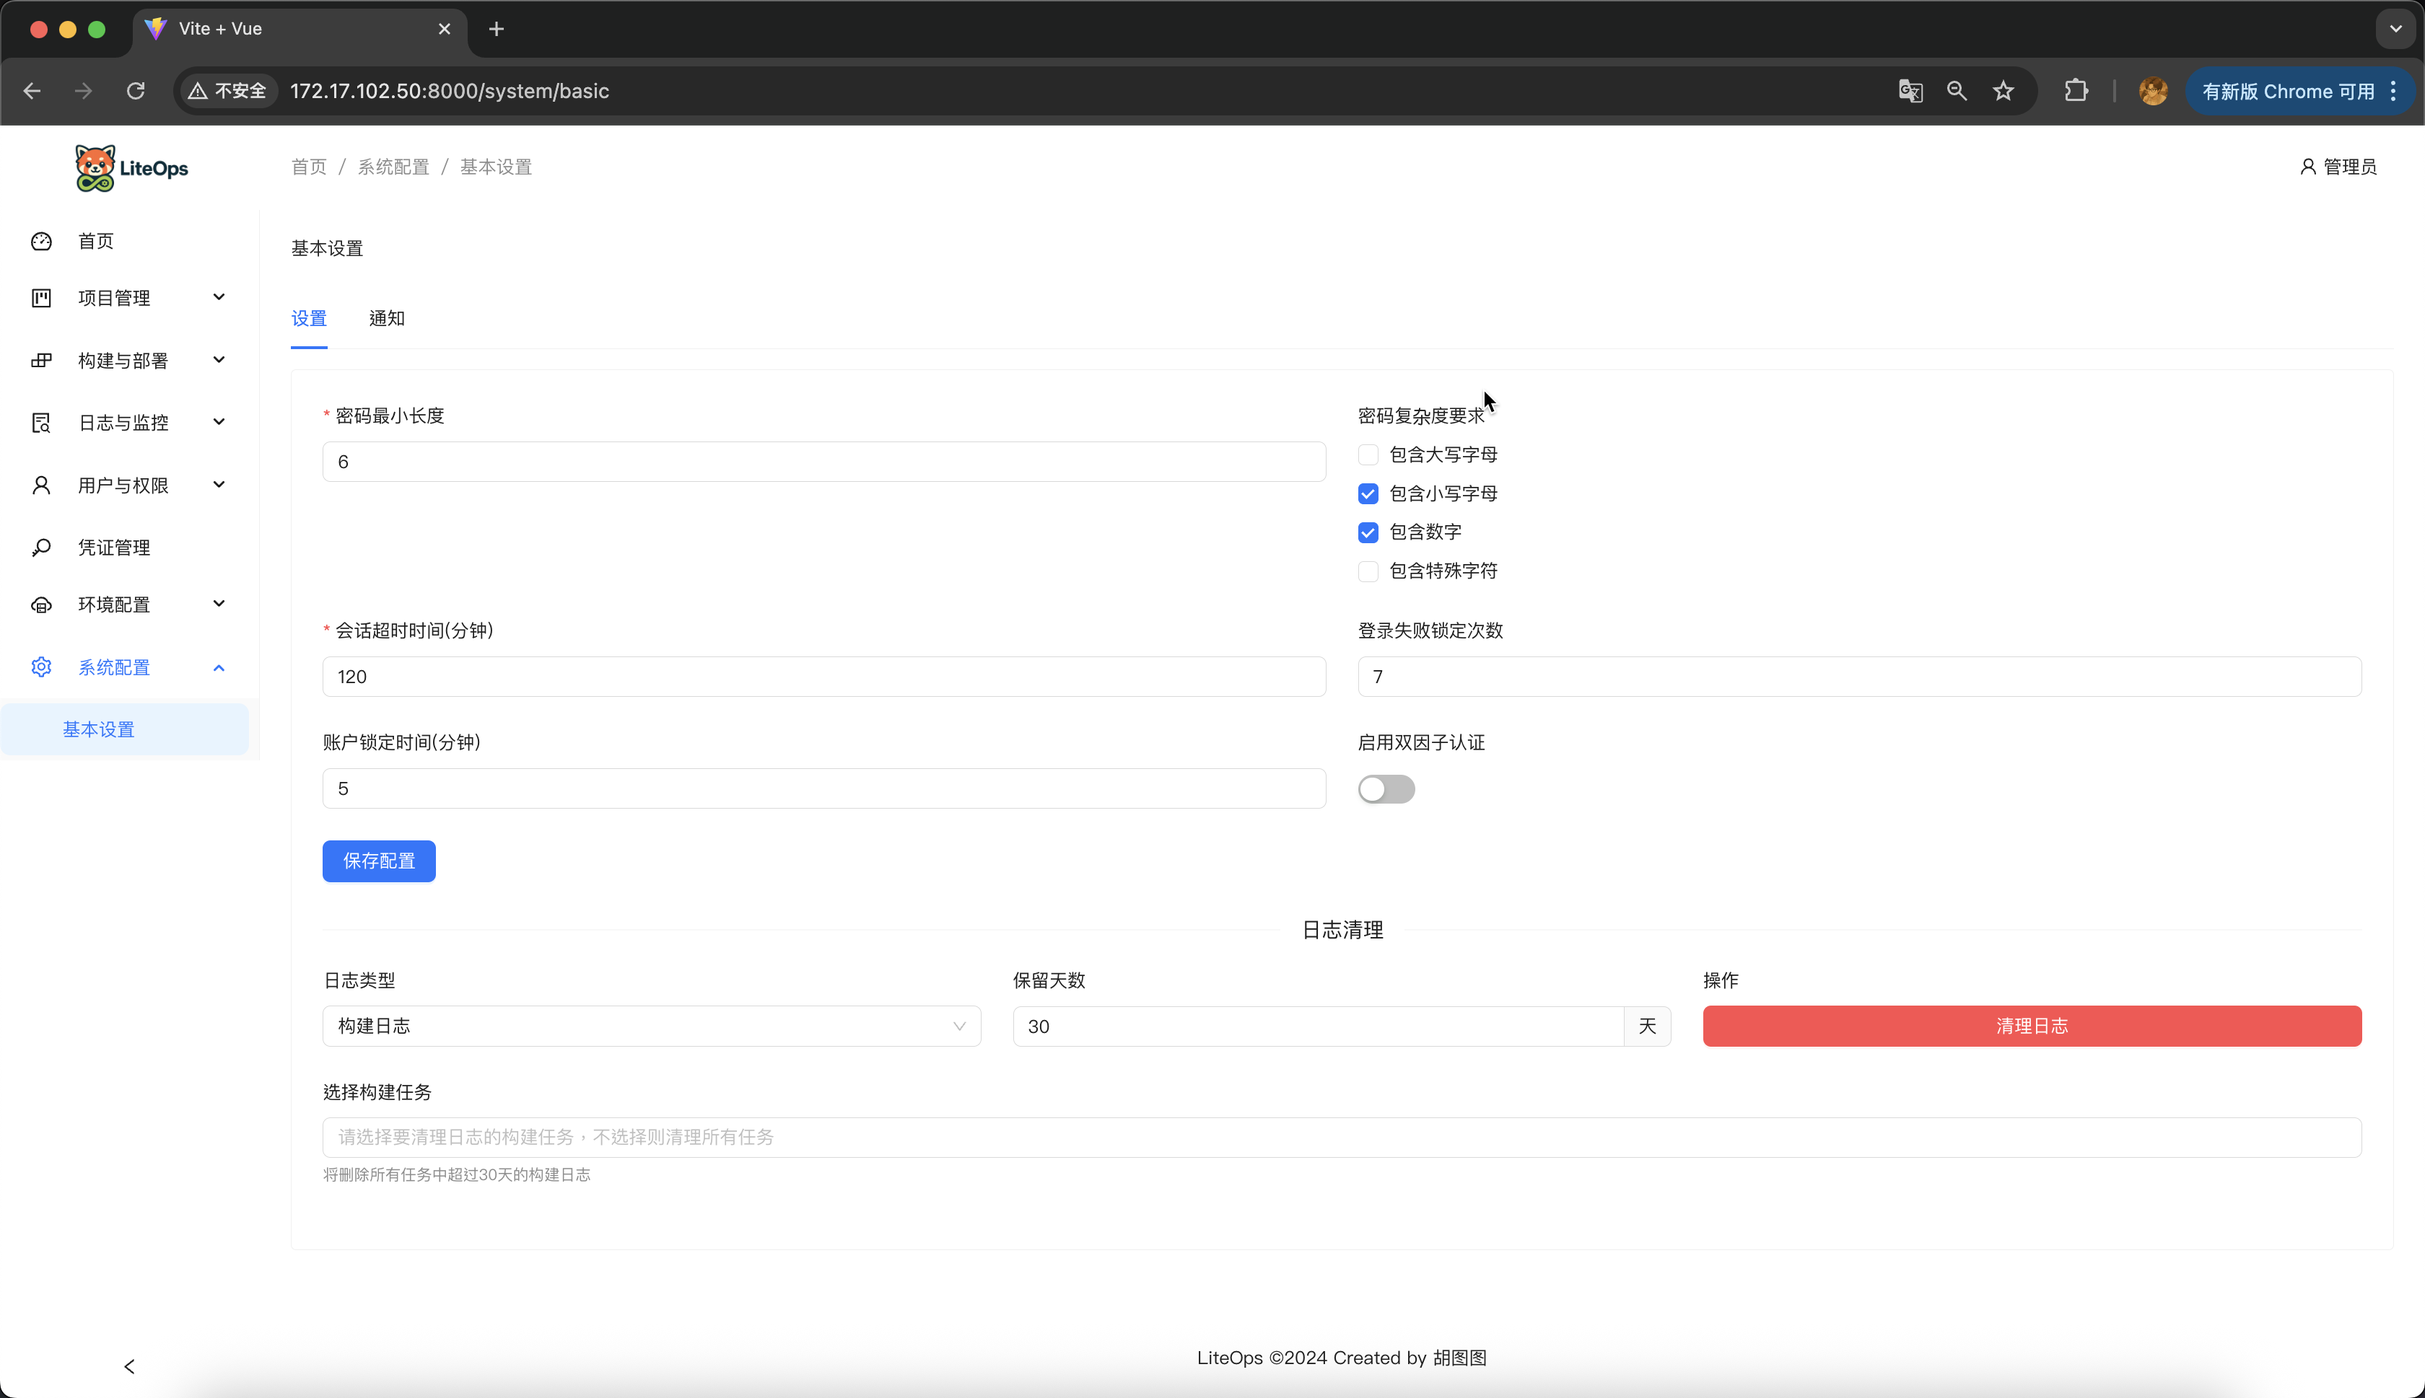
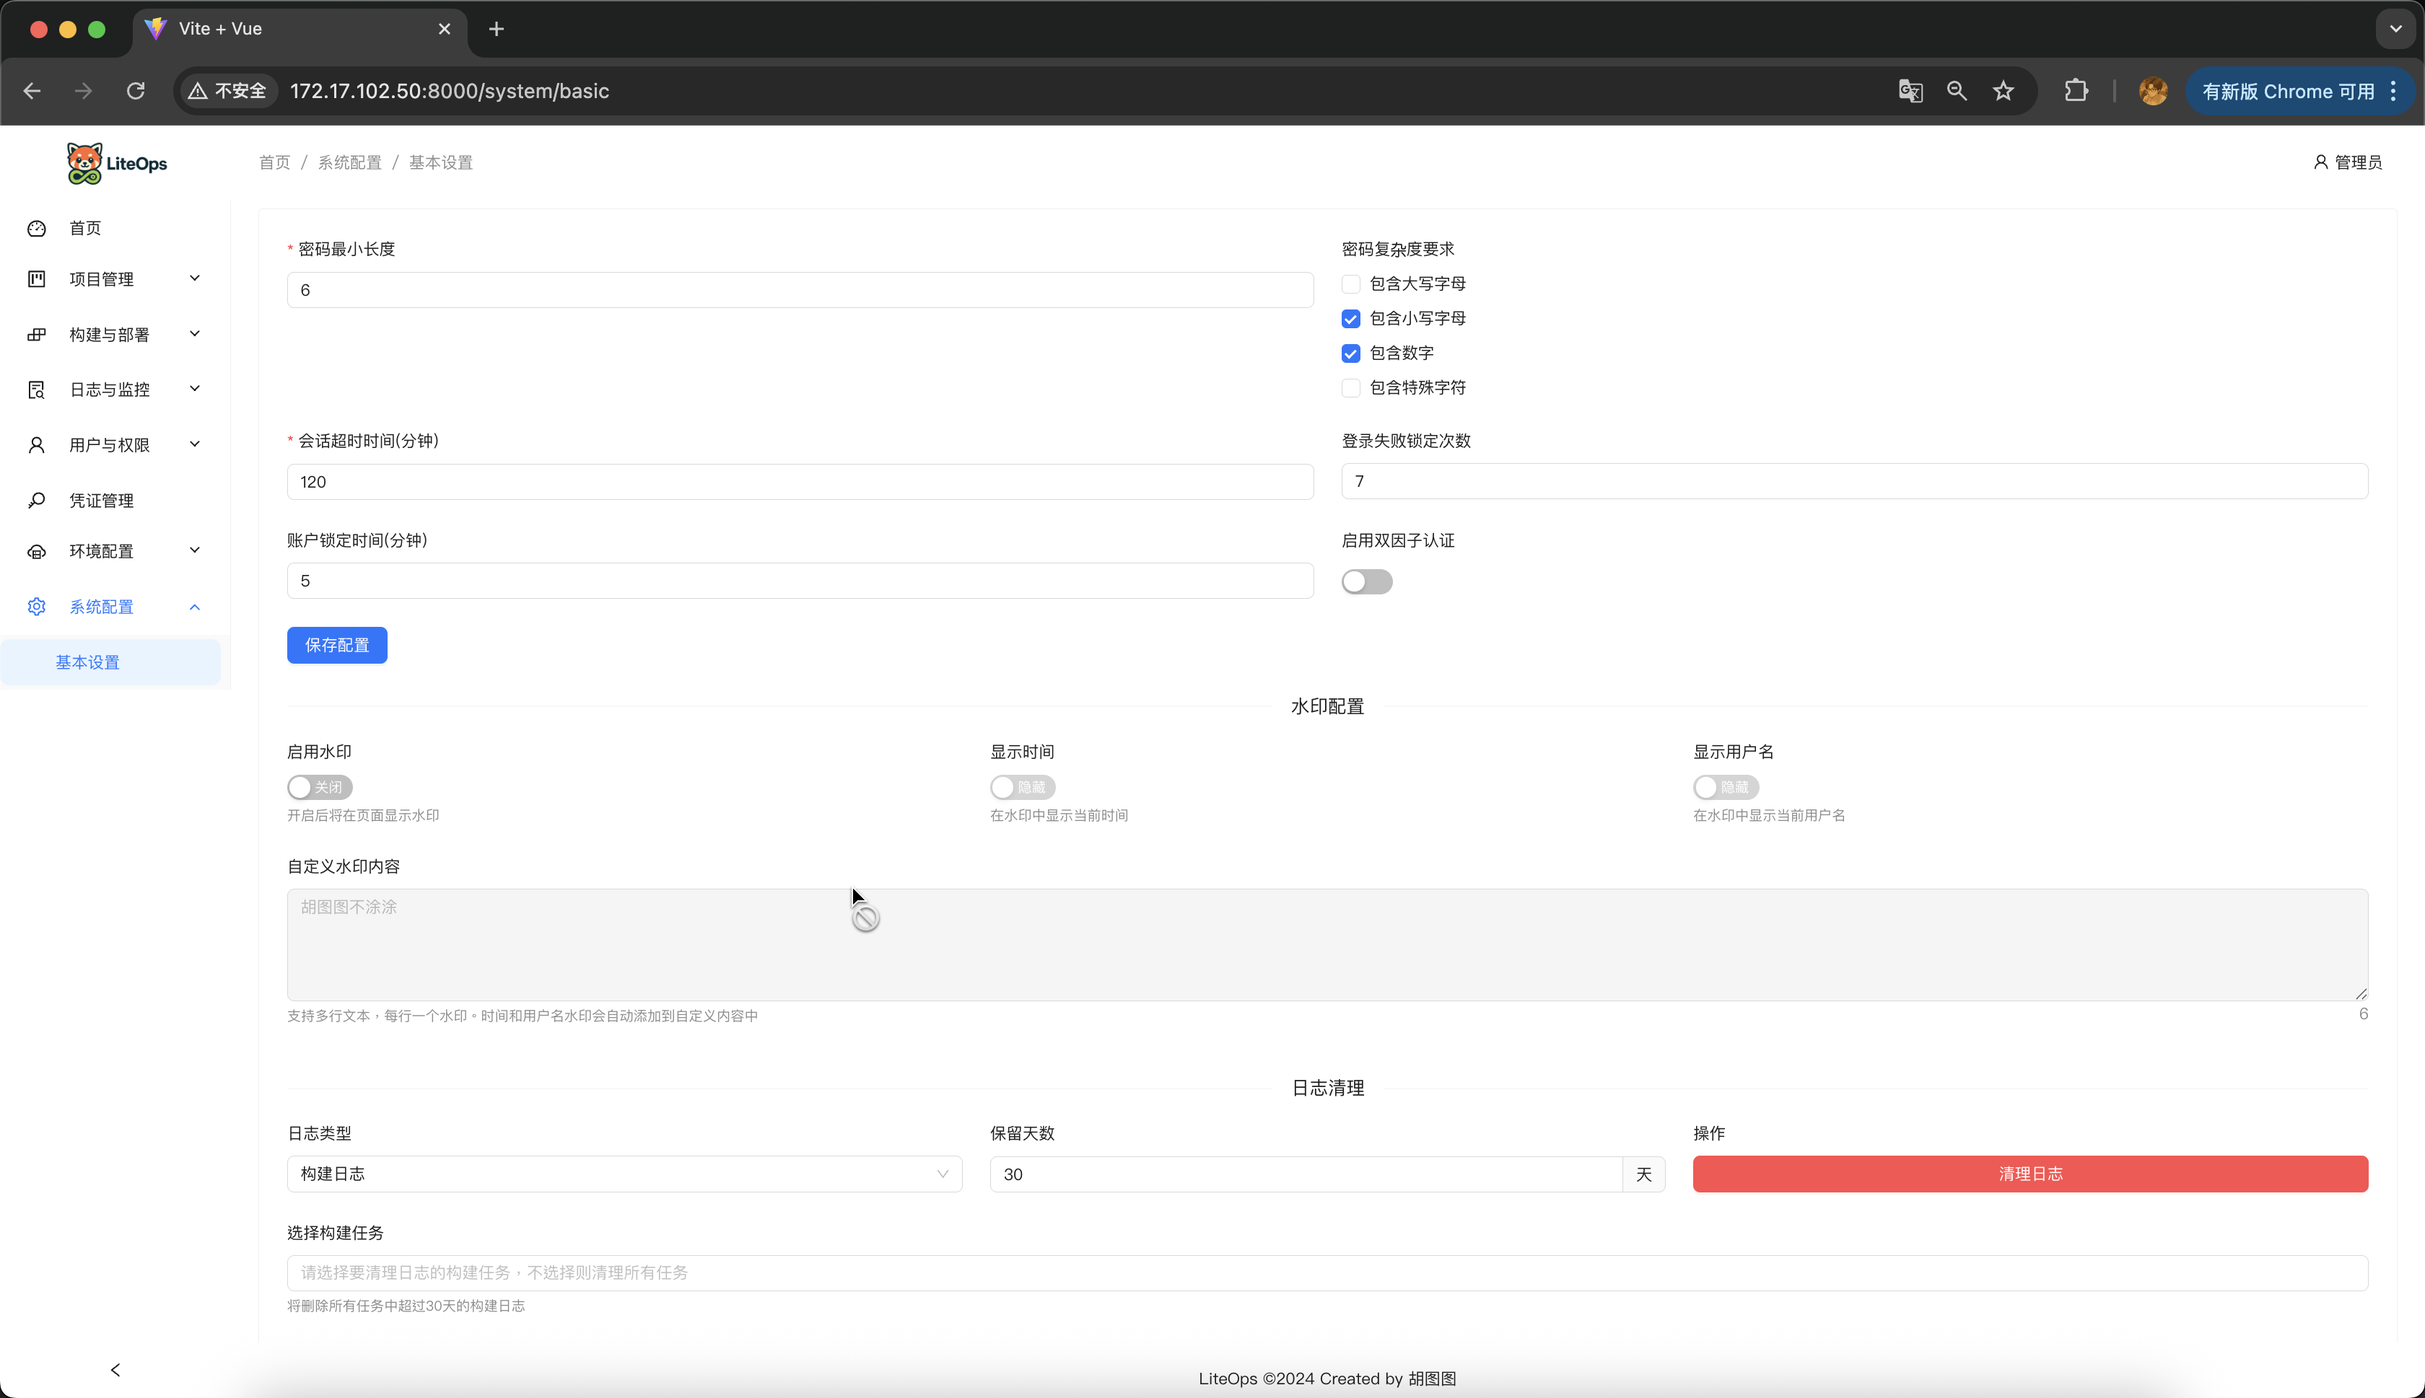
✨ feat: 新增水印功能

diff --git a/web/src/App.vue b/web/src/App.vue
@@ -1,18 +1,138 @@
 <template>
-  <a-config-provider :locale="zhCN" :theme="theme">
+  <a-watermark
+    v-if="shouldShowWatermark"
+    :content="watermarkContent"
+  >
+    <a-config-provider :locale="zhCN" :theme="theme">
+      <router-view></router-view>
+    </a-config-provider>
+  </a-watermark>
+  <a-config-provider
+    v-else
+    :locale="zhCN"
+    :theme="theme"
+  >
     <router-view></router-view>
   </a-config-provider>
 </template>
 
 <script setup>
+import { reactive, computed, onMounted, watch, ref } from 'vue';
+import { useRoute } from 'vue-router';
 import zhCN from "ant-design-vue/es/locale/zh_CN";
+import axios from 'axios';
 
-// 配置 Ant Design Vue 主题，强制使用自定义 PingFang 字体
+const route = useRoute();
+
 const theme = {
   token: {
     fontFamily: "'PingFangCustom', Arial, sans-serif",
   },
 };
+
+// 水印配置
+const watermarkConfig = reactive({
+  enabled: false,
+  content: '',
+  showTime: false,
+  showUsername: false
+});
+
+// 用户信息
+const userInfo = reactive({
+  username: '',
+  name: ''
+});
+
+// 当前日期（年月日）
+const currentDate = ref('');
+
+const shouldShowWatermark = computed(() => {
+  // 排除登陆页面显示水印
+  if (route.path === '/login') {
+    return false;
+  }
+  return watermarkConfig.enabled;
+});
+
+const watermarkContent = computed(() => {
+  const contents = [];
+
+  // 添加自定义水印内容
+  if (watermarkConfig.content) {
+    const customContents = watermarkConfig.content.split('\n').filter(line => line.trim());
+    contents.push(...customContents);
+  }
+
+  // 添加日期水印
+  if (watermarkConfig.showTime && currentDate.value) {
+    contents.push(currentDate.value);
+  }
+
+  // 添加用户名水印
+  if (watermarkConfig.showUsername && userInfo.name) {
+    contents.push(userInfo.name);
+  }
+
+  return contents.length > 0 ? contents : [];
+});
+
+// 更新日期（年月日）
+const updateDate = () => {
+  const now = new Date();
+  currentDate.value = now.toLocaleDateString('zh-CN', {
+    year: 'numeric',
+    month: '2-digit',
+    day: '2-digit'
+  });
+};
+
+// 获取水印配置
+const fetchWatermarkConfig = async () => {
+  try {
+    const response = await axios.get('/api/system/watermark/');
+    if (response.data.code === 200) {
+      watermarkConfig.enabled = response.data.data.watermark_enabled;
+      watermarkConfig.content = response.data.data.watermark_content;
+      watermarkConfig.showTime = response.data.data.watermark_show_time;
+      watermarkConfig.showUsername = response.data.data.watermark_show_username;
+    }
+  } catch (error) {
+    console.error('获取水印配置失败:', error);
+    // 使用默认配置
+  }
+};
+
+// 获取用户信息
+const fetchUserInfo = async () => {
+  try {
+    const token = localStorage.getItem('token');
+    if (!token) return;
+
+    const response = await axios.get('/api/user/current/', {
+      headers: { 'Authorization': token }
+    });
+    if (response.data.code === 200) {
+      userInfo.username = response.data.data.username;
+      userInfo.name = response.data.data.name;
+    }
+  } catch (error) {
+    console.error('获取用户信息失败:', error);
+  }
+};
+
+// 监听路由变化，在非登录页面获取用户信息
+watch(() => route.path, (newPath) => {
+  if (newPath !== '/login') {
+    fetchUserInfo();
+  }
+}, { immediate: true });
+
+onMounted(() => {
+  fetchWatermarkConfig();
+
+  updateDate();
+});
 </script>
 
 <style>

diff --git a/web/src/views/system/BasicSettings.vue b/web/src/views/system/BasicSettings.vue
@@ -95,6 +95,71 @@
           </a-form>
 
           <!-- 分割线 -->
+          <a-divider>水印配置</a-divider>
+
+          <!-- 水印功能 -->
+          <a-form layout="vertical" v-if="hasFunctionPermission('system_basic', 'edit')">
+            <a-row :gutter="24">
+              <a-col :span="8">
+                <a-form-item label="启用水印">
+                  <a-switch
+                    v-model:checked="securityConfig.watermark_enabled"
+                    checked-children="开启"
+                    un-checked-children="关闭"
+                  />
+                  <div class="form-item-help">
+                    开启后将在页面显示水印
+                  </div>
+                </a-form-item>
+              </a-col>
+              <a-col :span="8">
+                <a-form-item label="显示时间">
+                  <a-switch
+                    v-model:checked="securityConfig.watermark_show_time"
+                    checked-children="显示"
+                    un-checked-children="隐藏"
+                    :disabled="!securityConfig.watermark_enabled"
+                  />
+                  <div class="form-item-help">
+                    在水印中显示当天日期
+                  </div>
+                </a-form-item>
+              </a-col>
+              <a-col :span="8">
+                <a-form-item label="显示用户名">
+                  <a-switch
+                    v-model:checked="securityConfig.watermark_show_username"
+                    checked-children="显示"
+                    un-checked-children="隐藏"
+                    :disabled="!securityConfig.watermark_enabled"
+                  />
+                  <div class="form-item-help">
+                    在水印中显示当前用户名
+                  </div>
+                </a-form-item>
+              </a-col>
+            </a-row>
+
+            <a-row :gutter="24">
+              <a-col :span="24">
+                <a-form-item label="自定义水印内容">
+                  <a-textarea
+                    v-model:value="securityConfig.watermark_content"
+                    placeholder="请输入水印内容，支持多行"
+                    :rows="4"
+                    :maxLength="500"
+                    show-count
+                    :disabled="!securityConfig.watermark_enabled"
+                  />
+                  <div class="form-item-help">
+                    支持多行文本，每行一个水印。时间和用户名水印会自动添加到自定义内容中
+                  </div>
+                </a-form-item>
+              </a-col>
+            </a-row>
+          </a-form>
+
+          <!-- 分割线 -->
           <a-divider>日志清理</a-divider>
 
           <!-- 日志清理功能 -->
@@ -391,7 +456,11 @@ const securityConfig = reactive({
   session_timeout: 120,
   max_login_attempts: 5,
   lockout_duration: 30,
-  enable_2fa: false
+  enable_2fa: false,
+  watermark_enabled: false,
+  watermark_content: '',
+  watermark_show_time: false,
+  watermark_show_username: false
 });
 
 const securityRules = {

diff --git a/backend/apps/views/security.py b/backend/apps/views/security.py
@@ -43,6 +43,10 @@ class SecurityConfigView(View):
                     'max_login_attempts': security_config.max_login_attempts,
                     'lockout_duration': security_config.lockout_duration,
                     'enable_2fa': security_config.enable_2fa,
+                    'watermark_enabled': security_config.watermark_enabled,
+                    'watermark_content': security_config.watermark_content,
+                    'watermark_show_time': security_config.watermark_show_time,
+                    'watermark_show_username': security_config.watermark_show_username,
                     'update_time': security_config.update_time.strftime('%Y-%m-%d %H:%M:%S') if security_config.update_time else None
                 }
             })
@@ -67,6 +71,10 @@ class SecurityConfigView(View):
                 max_login_attempts = data.get('max_login_attempts')
                 lockout_duration = data.get('lockout_duration')
                 enable_2fa = data.get('enable_2fa')
+                watermark_enabled = data.get('watermark_enabled')
+                watermark_content = data.get('watermark_content')
+                watermark_show_time = data.get('watermark_show_time')
+                watermark_show_username = data.get('watermark_show_username')
 
                 # 验证输入数据
                 if min_password_length is not None:
@@ -111,6 +119,18 @@ class SecurityConfigView(View):
                             'message': '账户锁定时间必须在5-60分钟之间'
                         })
 
+                if watermark_content is not None:
+                    if not isinstance(watermark_content, str) or len(watermark_content.strip()) == 0:
+                        return JsonResponse({
+                            'code': 400,
+                            'message': '水印内容不能为空'
+                        })
+                    if len(watermark_content) > 500:
+                        return JsonResponse({
+                            'code': 400,
+                            'message': '水印内容长度不能超过500字符'
+                        })
+
                 # 获取或创建安全配置
                 security_config, created = SecurityConfig.objects.get_or_create(id=1)
 
@@ -127,6 +147,14 @@ class SecurityConfigView(View):
                     security_config.lockout_duration = lockout_duration
                 if enable_2fa is not None:
                     security_config.enable_2fa = enable_2fa
+                if watermark_enabled is not None:
+                    security_config.watermark_enabled = watermark_enabled
+                if watermark_content is not None:
+                    security_config.watermark_content = watermark_content
+                if watermark_show_time is not None:
+                    security_config.watermark_show_time = watermark_show_time
+                if watermark_show_username is not None:
+                    security_config.watermark_show_username = watermark_show_username
 
                 security_config.save()
 
@@ -364,6 +392,73 @@ def cleanup_login_logs(request):
 
     except Exception as e:
         logger.error(f'清理登录日志失败: {str(e)}', exc_info=True)
+        return JsonResponse({
+            'code': 500,
+            'message': f'服务器错误: {str(e)}'
+        })
+
+
+@csrf_exempt
+@require_http_methods(["GET"])
+def get_watermark_config(request):
+    """获取水印配置"""
+    try:
+        # 获取安全配置
+        security_config, created = SecurityConfig.objects.get_or_create(
+            id=1,
+            defaults={
+                'min_password_length': 8,
+                'password_complexity': ['lowercase', 'number'],
+                'session_timeout': 120,
+                'max_login_attempts': 5,
+                'lockout_duration': 30,
+                'enable_2fa': False
+            }
+        )
+
+        return JsonResponse({
+            'code': 200,
+            'message': '获取水印配置成功',
+            'data': {
+                'watermark_enabled': security_config.watermark_enabled,
+                'watermark_content': security_config.watermark_content,
+                'watermark_show_time': security_config.watermark_show_time,
+                'watermark_show_username': security_config.watermark_show_username
+            }
+        })
+
+    except Exception as e:
+        logger.error(f'获取水印配置失败: {str(e)}', exc_info=True)
+        return JsonResponse({
+            'code': 500,
+            'message': f'服务器错误: {str(e)}'
+        })
+
+
+@csrf_exempt
+@jwt_auth_required
+@require_http_methods(["GET"])
+def get_current_user_info(request):
+    """获取当前用户信息"""
+    try:
+        user = User.objects.get(user_id=request.user_id)
+
+        return JsonResponse({
+            'code': 200,
+            'message': '获取用户信息成功',
+            'data': {
+                'username': user.username,
+                'name': user.name or user.username
+            }
+        })
+
+    except User.DoesNotExist:
+        return JsonResponse({
+            'code': 404,
+            'message': '用户不存在'
+        })
+    except Exception as e:
+        logger.error(f'获取用户信息失败: {str(e)}', exc_info=True)
         return JsonResponse({
             'code': 500,
             'message': f'服务器错误: {str(e)}'

diff --git a/backend/backend/urls.py b/backend/backend/urls.py
@@ -15,7 +15,7 @@ from apps.views.logs import login_logs_list, login_log_detail
 from apps.views.dashboard import DashboardStatsView, BuildTrendView, BuildDetailView, RecentBuildsView, ProjectDistributionView
 from apps.views.webhook import GitLabWebhookView
 
-from apps.views.security import SecurityConfigView, get_build_tasks_for_cleanup, cleanup_build_logs, cleanup_login_logs
+from apps.views.security import SecurityConfigView, get_build_tasks_for_cleanup, cleanup_build_logs, cleanup_login_logs, get_watermark_config, get_current_user_info
 
 urlpatterns = [
     path('admin/', admin.site.urls),
@@ -71,4 +71,6 @@ urlpatterns = [
     path('api/system/security/build-tasks/', get_build_tasks_for_cleanup, name='build-tasks-for-cleanup'),
     path('api/system/security/cleanup-build-logs/', cleanup_build_logs, name='cleanup-build-logs'),
     path('api/system/security/cleanup-login-logs/', cleanup_login_logs, name='cleanup-login-logs'),
+    path('api/system/watermark/', get_watermark_config, name='watermark-config'),
+    path('api/user/current/', get_current_user_info, name='current-user-info'),
 ]

diff --git a/backend/apps/models.py b/backend/apps/models.py
@@ -353,6 +353,11 @@ class SecurityConfig(models.Model):
     max_login_attempts = models.IntegerField(default=5, verbose_name='最大登录尝试次数')
     lockout_duration = models.IntegerField(default=30, verbose_name='账户锁定时间(分钟)')
     enable_2fa = models.BooleanField(default=False, verbose_name='启用双因子认证')
+    # 水印配置
+    watermark_enabled = models.BooleanField(default=True, verbose_name='启用水印')
+    watermark_content = models.TextField(default='胡图图不涂涂', verbose_name='水印内容')
+    watermark_show_time = models.BooleanField(default=False, verbose_name='显示时间水印')
+    watermark_show_username = models.BooleanField(default=False, verbose_name='显示用户名水印')
     update_time = models.DateTimeField(auto_now=True, null=True, verbose_name='更新时间')
 
     class Meta:
